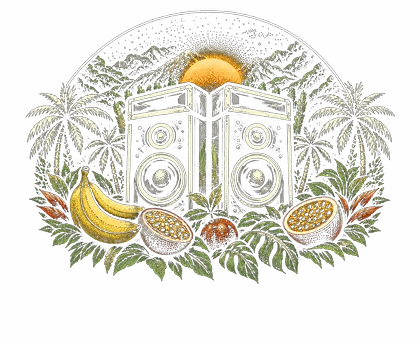
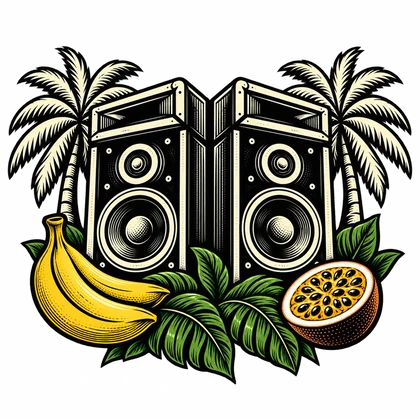
Swap Savoir-faire paired-cocktail art for the bold woodcut versions
Claude-Session: https://claude.ai/code/session_01DDUAqa1kmEj9or7ksKyHhj

diff --git a/site/index.html b/site/index.html
@@ -6,8 +6,8 @@
 <div class="statement">EXIGEZ L’EXCELLENCE, VIVEZ L’EXCEPTION.</div>
 <section id="paris" class="section paris"><p class="eyebrow">LE CALBAR · PARIS 12e</p><div class="agency-top"><div><h2>À deux pas<br><i>de la Gare de Lyon.</i></h2><p>Une ambiance intimiste, des cocktails sur mesure selon vos envies et vos inspirations du moment.</p><p>Laissez-vous aussi surprendre par les créations de la carte, préparées par nos barmans en caleçon et nœud papillon.</p></div><div class="paris-details"><p class="eyebrow">VENIR AU CALBAR</p><h3>82 rue de Charenton<br>75012 Paris</h3><p>Du mardi au samedi : 18h à 1h30<br>Lundi et dimanche : fermé</p><p><a href="tel:+33184061890">+33 (0)1 84 06 18 90</a><br><a href="mailto:info@lecalbarcocktail.com">info@lecalbarcocktail.com</a></p><a class="button" href="https://goo.gl/maps/UjKyPUVbv9vbNfPr7" target="_blank" rel="noopener noreferrer">Itinéraire</a></div></div></section>
 <section id="menus" class="section menus-section" aria-labelledby="menus-title"><p class="eyebrow">LE CALBAR · PARIS</p><h2 id="menus-title">Menus</h2><div class="menu-categories" role="tablist" aria-label="Choisir un menu"><button id="menu-tab-drinks" type="button" role="tab" aria-selected="true" aria-controls="menu-drinks" data-menu="drinks">Drinks</button><button id="menu-tab-food" type="button" role="tab" aria-selected="false" aria-controls="menu-food" data-menu="food" tabindex="-1">Food</button></div><div class="menu-preview is-collapsed" id="menu-preview"><article id="menu-drinks" class="menu-category" role="tabpanel" aria-labelledby="menu-tab-drinks"><div class="menu-teaser" aria-label="Six cocktails signatures de la carte"><ul class="menu-teaser-track"><li><img src="assets/illustrations/honolulu.png" alt="Honolulu" width="514" height="424" decoding="async"><p class="teaser-base">Duo Rhums &amp; Kaffir</p><p class="teaser-lead">Liqueur de coco · Citron, miel</p><p class="teaser-price">15 € <span>15 cl</span></p></li><li><img src="assets/illustrations/montreal.png" alt="Montréal" width="514" height="424" decoding="async"><p class="teaser-base">Whisky</p><p class="teaser-lead">« Fatwash » noisette · Sirop d’érable</p><p class="teaser-price">15 € <span>10 cl</span></p></li><li><img src="assets/illustrations/oaxaca.png" alt="Oaxaca" width="514" height="424" decoding="async"><p class="teaser-base">Mezcal &amp; Chipotle</p><p class="teaser-lead">Poivrons · Menthe · Citron</p><p class="teaser-price">16 € <span>15 cl</span></p></li><li><img src="assets/illustrations/kingston.png" alt="Kingston" width="514" height="424" decoding="async"><p class="teaser-base">Trio Rhums</p><p class="teaser-lead">Bondamonjack · Cacao / Banane</p><p class="teaser-price">15 € <span>15 cl</span></p></li><li><img src="assets/illustrations/guadalajara.png" alt="Guadalajara" width="514" height="424" decoding="async"><p class="teaser-base">Tequila &amp; Combawa</p><p class="teaser-lead">Pamplemousse · Amande</p><p class="teaser-price">14 € <span>25 cl</span></p></li><li><img src="assets/illustrations/rio.png" alt="Rio de Janeiro" width="514" height="424" decoding="async"><p class="teaser-base">Cachaça</p><p class="teaser-lead">Cardamome · Café</p><p class="teaser-price">14 € <span>25 cl</span></p></li></ul></div><div class="menu-sheet"><iframe id="drinks-menu-frame" src="cocktails.html?v=28" title="Drinks — Carte des cocktails du Calbar" class="drinks-menu-frame"></iframe></div></article><article id="menu-food" class="menu-category" role="tabpanel" aria-labelledby="menu-tab-food" hidden><div class="menu-sheet"><iframe id="food-menu-frame" src="food.html?v=27" title="Food — Menu à partager du Calbar" class="food-menu-frame"></iframe></div></article></div><p class="menu-toggle-row"><button class="button menu-toggle" type="button" aria-expanded="false" aria-controls="menu-preview">Voir toute la carte</button></p></section>
-<section class="section techniques" id="savoir-faire"><div class="techniques-heading"><p class="eyebrow">LE SAVOIR-FAIRE</p><h2>La technique au service<br><i>de la sensation.</i></h2><p>Trois approches, trois expressions du cocktail.</p></div><div class="tabs tech-tabs" role="tablist" aria-label="Techniques de cocktails"><button id="tab-milk" role="tab" aria-selected="true" aria-controls="technique-panel" data-tech="milk"><span class="tab-num" aria-hidden="true">01</span><span class="tab-name">Clear Milk Punch</span></button><button id="tab-fatwash" role="tab" aria-selected="false" aria-controls="technique-panel" data-tech="fatwash" tabindex="-1"><span class="tab-num" aria-hidden="true">02</span><span class="tab-name">Fatwash</span></button><button id="tab-carbon" role="tab" aria-selected="false" aria-controls="technique-panel" data-tech="carbon" tabindex="-1"><span class="tab-num" aria-hidden="true">03</span><span class="tab-name">Agar-agar</span></button></div><div id="technique-panel" role="tabpanel" aria-labelledby="tab-milk" tabindex="0" class="technique-panel"><div class="tech-media"><img id="tech-image" src="assets/tech-kingston.png" alt="Kingston, cocktail signature du Calbar" width="1800" height="1200"></div><div class="tech-copy"><p class="eyebrow" id="tech-category">COCKTAIL CLARIFIÉ AU LAIT</p><h3 id="tech-title">Clear Milk Punch</h3><p id="tech-description"></p><ol id="tech-steps"></ol><div class="recipe"><p class="eyebrow">COCKTAIL ASSOCIÉ</p><div class="recipe-card"><img id="recipe-image" src="assets/illustrations/recipe-kingston.webp" alt="" width="420" height="347" decoding="async"><div><h4 id="recipe-title"></h4><p id="recipe-ingredients"></p><i id="recipe-note"></i><a class="recipe-link" href="#menus">Voir la carte <span aria-hidden="true">→</span></a></div></div></div><button class="tech-next" type="button">Technique suivante : <span id="tech-next-name">Fat wash</span> <span aria-hidden="true">→</span></button></div></div></section>
+<section class="section techniques" id="savoir-faire"><div class="techniques-heading"><p class="eyebrow">LE SAVOIR-FAIRE</p><h2>La technique au service<br><i>de la sensation.</i></h2><p>Trois approches, trois expressions du cocktail.</p></div><div class="tabs tech-tabs" role="tablist" aria-label="Techniques de cocktails"><button id="tab-milk" role="tab" aria-selected="true" aria-controls="technique-panel" data-tech="milk"><span class="tab-num" aria-hidden="true">01</span><span class="tab-name">Clear Milk Punch</span></button><button id="tab-fatwash" role="tab" aria-selected="false" aria-controls="technique-panel" data-tech="fatwash" tabindex="-1"><span class="tab-num" aria-hidden="true">02</span><span class="tab-name">Fatwash</span></button><button id="tab-carbon" role="tab" aria-selected="false" aria-controls="technique-panel" data-tech="carbon" tabindex="-1"><span class="tab-num" aria-hidden="true">03</span><span class="tab-name">Agar-agar</span></button></div><div id="technique-panel" role="tabpanel" aria-labelledby="tab-milk" tabindex="0" class="technique-panel"><div class="tech-media"><img id="tech-image" src="assets/tech-kingston.png" alt="Kingston, cocktail signature du Calbar" width="1800" height="1200"></div><div class="tech-copy"><p class="eyebrow" id="tech-category">COCKTAIL CLARIFIÉ AU LAIT</p><h3 id="tech-title">Clear Milk Punch</h3><p id="tech-description"></p><ol id="tech-steps"></ol><div class="recipe"><p class="eyebrow">COCKTAIL ASSOCIÉ</p><div class="recipe-card"><img id="recipe-image" src="assets/illustrations/recipe-kingston.webp?v=2" alt="" width="420" height="420" decoding="async"><div><h4 id="recipe-title"></h4><p id="recipe-ingredients"></p><i id="recipe-note"></i><a class="recipe-link" href="#menus">Voir la carte <span aria-hidden="true">→</span></a></div></div></div><button class="tech-next" type="button">Technique suivante : <span id="tech-next-name">Fat wash</span> <span aria-hidden="true">→</span></button></div></div></section>
 <section class="section contact booking" id="contact" aria-labelledby="contact-title"><div class="booking-intro"><p class="eyebrow">RENDEZ-VOUS AU CALBAR</p><h2 id="contact-title">Votre prochain moment.<br><i>On en parle ?</i></h2><p>Une table, un atelier cocktails ou un événement : envoyez votre demande à notre équipe.<br>Votre réservation sera confirmée après échange avec nous.</p></div><div class="booking-layout"><form id="booking-form" action="api/request.php" method="post"><div class="form-grid"><label>Votre demande<select name="request_type" id="request-type" required><option value="table">Réservation au bar</option><option value="atelier">Atelier cocktails / EVJF</option><option value="evenement">Événement / privatisation</option></select></label><label>Nom<input name="name" autocomplete="name" maxlength="100" required></label><label>Email<input name="email" type="email" autocomplete="email" maxlength="200" required></label><label>Téléphone <span>(facultatif)</span><input name="phone" type="tel" autocomplete="tel" maxlength="30"></label><label>Nombre de personnes<input name="guests" type="number" min="1" max="200" required></label><label>Date souhaitée<input name="date" type="date" required></label><label id="slot-label" hidden>Créneau de l’atelier<select name="slot"><option value="">Choisir un créneau</option><option value="15-16">15h–16h</option><option value="16-17">16h–17h</option><option value="17-18">17h–18h</option></select></label><label class="form-wide">Votre message <span>(facultatif)</span><textarea name="message" rows="4" maxlength="3000"></textarea></label></div><div class="form-trap" aria-hidden="true"><label>Site web<input name="website" tabindex="-1" autocomplete="off"></label></div><input type="hidden" name="csrf" value=""><p class="form-privacy">Les champs obligatoires permettent au Calbar de traiter votre demande et de vous répondre. Vos informations ne sont pas utilisées pour vous inscrire à une newsletter. <a href="confidentialite.html">Données personnelles et cookies</a>.</p><button class="button" type="submit">Envoyer ma demande</button><p id="form-status" role="status" aria-live="polite"></p><noscript><p>Activez JavaScript pour utiliser ce formulaire, ou appelez-nous au 01 84 06 18 90.</p></noscript></form><aside class="booking-info" aria-label="Infos pratiques"><p class="booking-info-title">Pour une table ce soir, appelez-nous.</p><a class="button booking-call" href="tel:+33184061890">01 84 06 18 90</a><dl><dt>Horaires</dt><dd>Du mardi au samedi, 18h à 1h30<br>Lundi et dimanche : fermé</dd><dt>Adresse</dt><dd>82 rue de Charenton, 75012 Paris<br><a href="https://goo.gl/maps/UjKyPUVbv9vbNfPr7" target="_blank" rel="noopener noreferrer">Itinéraire</a></dd><dt>Email</dt><dd><a href="mailto:info@lecalbarcocktail.com">info@lecalbarcocktail.com</a></dd></dl></aside></div></section>
 <section class="section workshop" id="ateliers" aria-labelledby="atelier-title"><div class="workshop-intro"><p class="eyebrow">EVJF & ATELIERS COCKTAILS</p><h2 id="atelier-title">À vous de shaker.<br><i>À nous de vous guider.</i></h2><p>Pour un EVJF ou un moment entre amis, prenez place derrière le bar et préparez deux cocktails créations avec notre équipe, dans un Calbar privatisé pour votre groupe.</p><div class="workshop-facts"><p><strong>55 €</strong><span>par personne</span></p><p><strong>1 heure</strong><span>2 cocktails créations</span></p><p><strong>4 à 10</strong><span>personnes · bar privatisé</span></p></div><p class="workshop-hours">Du mardi au samedi<br>15h–16h · 16h–17h · 17h–18h</p><a class="button" href="#contact" data-request="atelier">Demander un atelier</a></div><div class="workshop-art"><img src="assets/atelier-cocktails.webp" alt="Shaker et ustensiles dorés, citron vert et menthe sur un comptoir sombre" width="1536" height="1024" loading="lazy" decoding="async"></div></section>
 <section id="evenements" class="section"><div class="section-heading"><p class="eyebrow">L’ÉVENT BY LE CALBAR</p><h2>Votre événement.<br><i>Notre signature.</i></h2><p>Chaque détail compte. Chaque cocktail raconte une histoire.</p></div><div class="gallery"><figure><img src="assets/pour.jpg" loading="lazy" alt="Un cocktail versé dans une tasse artisanale"><figcaption>La précision du geste</figcaption></figure><figure><img src="assets/coupe.jpg" loading="lazy" alt="Deux cocktails servis sur le comptoir du Calbar"><figcaption>L’équilibre des saveurs</figcaption></figure><figure><img src="assets/finish.jpg" loading="lazy" alt="Un barman apporte la touche finale à un cocktail"><figcaption>Le sens du détail</figcaption></figure></div><div class="values"><article><span>01</span><h3>Cocktails<br>sur mesure</h3><p>Créations originales adaptées à votre univers et à vos invités.</p></article><article><span>02</span><h3>Produits<br>d’exception</h3><p>Des ingrédients sélectionnés avec exigence pour un rendu incomparable.</p></article><article><span>03</span><h3>Service<br>haut de gamme</h3><p>Élégance, discrétion et professionnalisme pour une expérience fluide et mémorable.</p></article><article><span>04</span><h3>Ambiance<br>unique</h3><p>Une mise en scène raffinée qui crée l’émotion et marque les esprits.</p></article></div><p class="section-cta"><a class="button" href="#contact" data-request="evenement">Parler de votre événement</a></p></section>
-</main><footer><a class="brand" href="#accueil"><img src="assets/calbar-logo.svg" alt="Le Calbar" width="140" height="79"></a><p>L’ÉVENT & AGENCY<br><span>BY LE CALBAR</span></p><div><a href="agency.html">Agency · consulting</a><a href="https://www.instagram.com/lecalbar/" target="_blank" rel="noopener noreferrer">Instagram · @lecalbar</a><a href="mentions-legales.html">Mentions légales</a><a href="confidentialite.html">Confidentialité & cookies</a></div></footer><script src="script.js?v=41"></script><script src="booking.js?v=28" defer></script><nav class="mobile-shortcuts is-hidden" aria-label="Accès rapides" aria-hidden="true" inert><a href="#menus"><svg viewBox="0 0 24 24" fill="none" stroke="currentColor" stroke-width="1.5" stroke-linecap="round" stroke-linejoin="round" aria-hidden="true"><path d="M12 5c-3-2-6-2-10-2v16c4 0 7 0 10 2m0-16c3-2 6-2 10-2v16c-4 0-7 0-10 2V5Z"/></svg><span>Carte</span></a><a class="shortcut-reserve" href="#contact" data-request="table"><svg viewBox="0 0 24 24" fill="none" stroke="currentColor" stroke-width="1.5" stroke-linecap="round" stroke-linejoin="round" aria-hidden="true"><rect x="3" y="5" width="18" height="17" rx="1"/><path d="M7 2v6m10-6v6M3 11h18"/></svg><span>Réserver</span></a><a href="#ateliers"><svg viewBox="0 0 24 24" fill="none" stroke="currentColor" stroke-width="1.5" stroke-linecap="round" stroke-linejoin="round" aria-hidden="true"><path d="M8 3h8v4H8zM7 7h10l3 5-3 10H7L4 12zM4 12h16M17 15h4l-2 7h-2"/></svg><span>Ateliers</span></a></nav></body></html>
+</main><footer><a class="brand" href="#accueil"><img src="assets/calbar-logo.svg" alt="Le Calbar" width="140" height="79"></a><p>L’ÉVENT & AGENCY<br><span>BY LE CALBAR</span></p><div><a href="agency.html">Agency · consulting</a><a href="https://www.instagram.com/lecalbar/" target="_blank" rel="noopener noreferrer">Instagram · @lecalbar</a><a href="mentions-legales.html">Mentions légales</a><a href="confidentialite.html">Confidentialité & cookies</a></div></footer><script src="script.js?v=42"></script><script src="booking.js?v=28" defer></script><nav class="mobile-shortcuts is-hidden" aria-label="Accès rapides" aria-hidden="true" inert><a href="#menus"><svg viewBox="0 0 24 24" fill="none" stroke="currentColor" stroke-width="1.5" stroke-linecap="round" stroke-linejoin="round" aria-hidden="true"><path d="M12 5c-3-2-6-2-10-2v16c4 0 7 0 10 2m0-16c3-2 6-2 10-2v16c-4 0-7 0-10 2V5Z"/></svg><span>Carte</span></a><a class="shortcut-reserve" href="#contact" data-request="table"><svg viewBox="0 0 24 24" fill="none" stroke="currentColor" stroke-width="1.5" stroke-linecap="round" stroke-linejoin="round" aria-hidden="true"><rect x="3" y="5" width="18" height="17" rx="1"/><path d="M7 2v6m10-6v6M3 11h18"/></svg><span>Réserver</span></a><a href="#ateliers"><svg viewBox="0 0 24 24" fill="none" stroke="currentColor" stroke-width="1.5" stroke-linecap="round" stroke-linejoin="round" aria-hidden="true"><path d="M8 3h8v4H8zM7 7h10l3 5-3 10H7L4 12zM4 12h16M17 15h4l-2 7h-2"/></svg><span>Ateliers</span></a></nav></body></html>

diff --git a/site/script.js b/site/script.js
@@ -1,4 +1,4 @@
-const techniques={"milk": {"category": "COCKTAIL CLARIFIÉ AU LAIT", "title": "Clear Milk Punch", "description": "La clarification au lait permet d’obtenir un cocktail limpide et une texture soyeuse, tout en conservant ses arômes.", "steps": ["Les ingrédients du cocktail sont mis en contact avec le lait.", "La préparation est filtrée lentement pour retenir les particules en suspension.", "Le résultat est un cocktail clarifié à la texture soyeuse."], "recipe": "Kingston", "ingredients": "Trio Rhums · Bondamonjack · Cacao / Banane · Passion", "note": "Trace de lactose", "alt": "Kingston, cocktail signature du Calbar clarifié au lait", "image": "assets/tech-kingston.png", "illustration": "assets/illustrations/recipe-kingston.webp"}, "fatwash": {"category": "INFUSION PAR LA MATIÈRE GRASSE", "title": "Fat wash", "description": "Le fat wash permet de transmettre les arômes d’une matière grasse à un alcool. Montréal met cette technique à l’honneur avec un fat wash à la noisette.", "steps": ["La matière grasse est mise en contact avec l’alcool pour lui transmettre ses arômes.", "Le mélange est refroidi afin de figer la matière grasse.", "La filtration permet de la retirer tout en conservant les arômes."], "recipe": "Montréal", "ingredients": "Whisky · « Fatwash » noisette · Sirop d’érable · Feuille de bétel · Bitter thym", "note": "", "alt": "Montréal, cocktail signature du Calbar au fat wash noisette", "image": "assets/tech-montreal.png", "illustration": "assets/illustrations/recipe-montreal.webp"}, "carbon": {"category": "CLARIFICATION À L’AGAR-AGAR", "title": "Clarification à l’agar-agar", "description": "La clarification à l’agar-agar permet de retenir les particules en suspension et d’obtenir un liquide plus limpide. Cette technique est illustrée ici par Rio de Janeiro.", "steps": ["L’agar-agar forme un gel qui retient les particules en suspension.", "La préparation est ensuite filtrée pour récupérer le liquide clarifié.", "Les arômes sont conservés dans un cocktail plus limpide."], "recipe": "Rio de Janeiro", "ingredients": "Cachaça · Cardamome · Café · Monkey Shoulder · Citron frais · Gazéifié", "note": "", "alt": "Rio de Janeiro, cocktail signature du Calbar illustrant la clarification à l’agar-agar", "image": "assets/tech-rio.png", "illustration": "assets/illustrations/recipe-rio.webp"}};
+const techniques={"milk": {"category": "COCKTAIL CLARIFIÉ AU LAIT", "title": "Clear Milk Punch", "description": "La clarification au lait permet d’obtenir un cocktail limpide et une texture soyeuse, tout en conservant ses arômes.", "steps": ["Les ingrédients du cocktail sont mis en contact avec le lait.", "La préparation est filtrée lentement pour retenir les particules en suspension.", "Le résultat est un cocktail clarifié à la texture soyeuse."], "recipe": "Kingston", "ingredients": "Trio Rhums · Bondamonjack · Cacao / Banane · Passion", "note": "Trace de lactose", "alt": "Kingston, cocktail signature du Calbar clarifié au lait", "image": "assets/tech-kingston.png", "illustration": "assets/illustrations/recipe-kingston.webp?v=2"}, "fatwash": {"category": "INFUSION PAR LA MATIÈRE GRASSE", "title": "Fat wash", "description": "Le fat wash permet de transmettre les arômes d’une matière grasse à un alcool. Montréal met cette technique à l’honneur avec un fat wash à la noisette.", "steps": ["La matière grasse est mise en contact avec l’alcool pour lui transmettre ses arômes.", "Le mélange est refroidi afin de figer la matière grasse.", "La filtration permet de la retirer tout en conservant les arômes."], "recipe": "Montréal", "ingredients": "Whisky · « Fatwash » noisette · Sirop d’érable · Feuille de bétel · Bitter thym", "note": "", "alt": "Montréal, cocktail signature du Calbar au fat wash noisette", "image": "assets/tech-montreal.png", "illustration": "assets/illustrations/recipe-montreal.webp?v=2"}, "carbon": {"category": "CLARIFICATION À L’AGAR-AGAR", "title": "Clarification à l’agar-agar", "description": "La clarification à l’agar-agar permet de retenir les particules en suspension et d’obtenir un liquide plus limpide. Cette technique est illustrée ici par Rio de Janeiro.", "steps": ["L’agar-agar forme un gel qui retient les particules en suspension.", "La préparation est ensuite filtrée pour récupérer le liquide clarifié.", "Les arômes sont conservés dans un cocktail plus limpide."], "recipe": "Rio de Janeiro", "ingredients": "Cachaça · Cardamome · Café · Monkey Shoulder · Citron frais · Gazéifié", "note": "", "alt": "Rio de Janeiro, cocktail signature du Calbar illustrant la clarification à l’agar-agar", "image": "assets/tech-rio.png", "illustration": "assets/illustrations/recipe-rio.webp?v=2"}};
 function selectTechnique(key){const t=techniques[key];document.querySelectorAll('[data-tech]').forEach(b=>{const active=b.dataset.tech===key;b.setAttribute('aria-selected',String(active));b.tabIndex=active?0:-1});document.getElementById('technique-panel').setAttribute('aria-labelledby','tab-'+key);for(const [id,value] of Object.entries({'tech-category':t.category,'tech-title':t.title,'tech-description':t.description,'recipe-title':t.recipe,'recipe-ingredients':t.ingredients,'recipe-note':t.note}))document.getElementById(id).textContent=value;document.getElementById('tech-steps').replaceChildren(...t.steps.map(s=>{const li=document.createElement('li');li.textContent=s;return li}));const img=document.getElementById('tech-image');img.src=t.image;img.alt=t.alt;document.getElementById('recipe-image').src=t.illustration;const keys=Object.keys(techniques),nextKey=keys[(keys.indexOf(key)+1)%keys.length];const next=document.querySelector('.tech-next');next.dataset.next=nextKey;document.getElementById('tech-next-name').textContent=techniques[nextKey].title;}
 const tabs=[...document.querySelectorAll('[data-tech]')];tabs.forEach((b,i)=>{b.addEventListener('click',()=>selectTechnique(b.dataset.tech));b.addEventListener('keydown',e=>{let j;if(e.key==='ArrowRight')j=(i+1)%tabs.length;else if(e.key==='ArrowLeft')j=(i+tabs.length-1)%tabs.length;else if(e.key==='Home')j=0;else if(e.key==='End')j=tabs.length-1;else return;e.preventDefault();selectTechnique(tabs[j].dataset.tech);tabs[j].focus()})});selectTechnique('milk');
 
